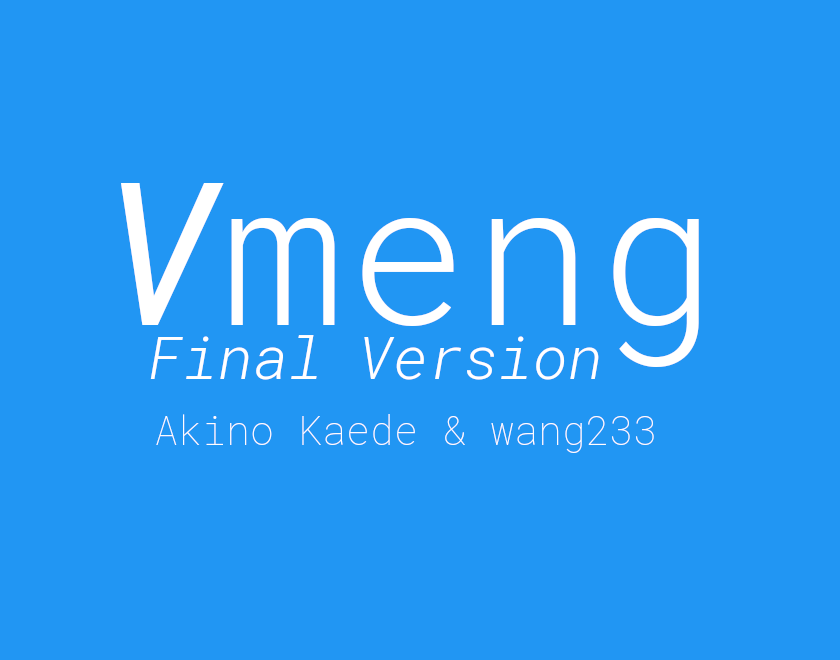
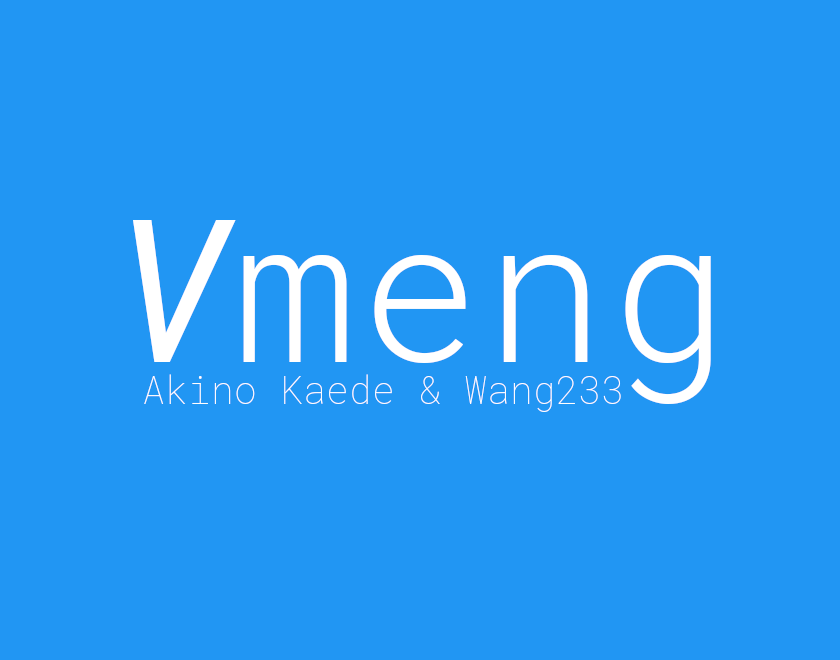
New Start

Changed region(s): [[0.1238, 0.2727, 0.8667, 0.697], [0.1857, 0.6364, 0.3095, 0.6667], [0.5262, 0.6364, 0.5571, 0.6667]]

diff --git a/README.md b/README.md
@@ -1,17 +1,4 @@
 # Vmeng
 轻快简的WordPress博客风主题,基于BootStarp框架,InstantClick让主题加载更为迅速。二次开发自[VicTheme](https://github.com/imvicchen/victheme-Wordpress-Theme)(已得授权)!  
-本项目无文档，无注释，不再维护(其实两年前就没有维护了，如果有提交PR咱倒是可以看看)!  
 推荐搭配[WP-PostViews for Vmeng](https://github.com/AkinoMaple/wp-postviews)使用  
-本项目代码不精，架构松散，封装无力? 别着急，请接下去看  
-
-## かえでの言葉
-我，秋のかえで， ~事JK~，INTP-T人格，什么都不会的Developer……  
-这款主题主题是我初二的时候和我的朋友写的，大部分算是我完成的吧，那段时光并不是很快乐，就不多回忆了。其实一直想把它开源，但是觉得写的太烂了，不敢开源……当时，其实我并不太懂开发，基本算是东拼西凑得来的，不过却给我带来了极大的影响。  
-后来，在得到授权后，我出售了这款主题，不过很遗憾，没有一个人购买它。紧接着，我弃坑了，两年了未作任何修改。   
-这之后，我便真正开始学习计算机，从PHP到了今天的Rust，回首过去，感慨万千。  
-我不知道，当年懵懂的我把大量精力花在这上面是不是虚度光阴，但这显然已经成为过去……  
-今天，按照了[VicTheme](https://github.com/imvicchen/victheme-Wordpress-Theme)的希望，我的考虑，本项目最终以GPLv3开源！  
-终  
-  
-秋のかえで  
-Feb 29, 2020  
+之前说过不再维护，还出了个Final Version。不过现在项目有需要，又没时间从零开始，所以拿出来鞭尸。
